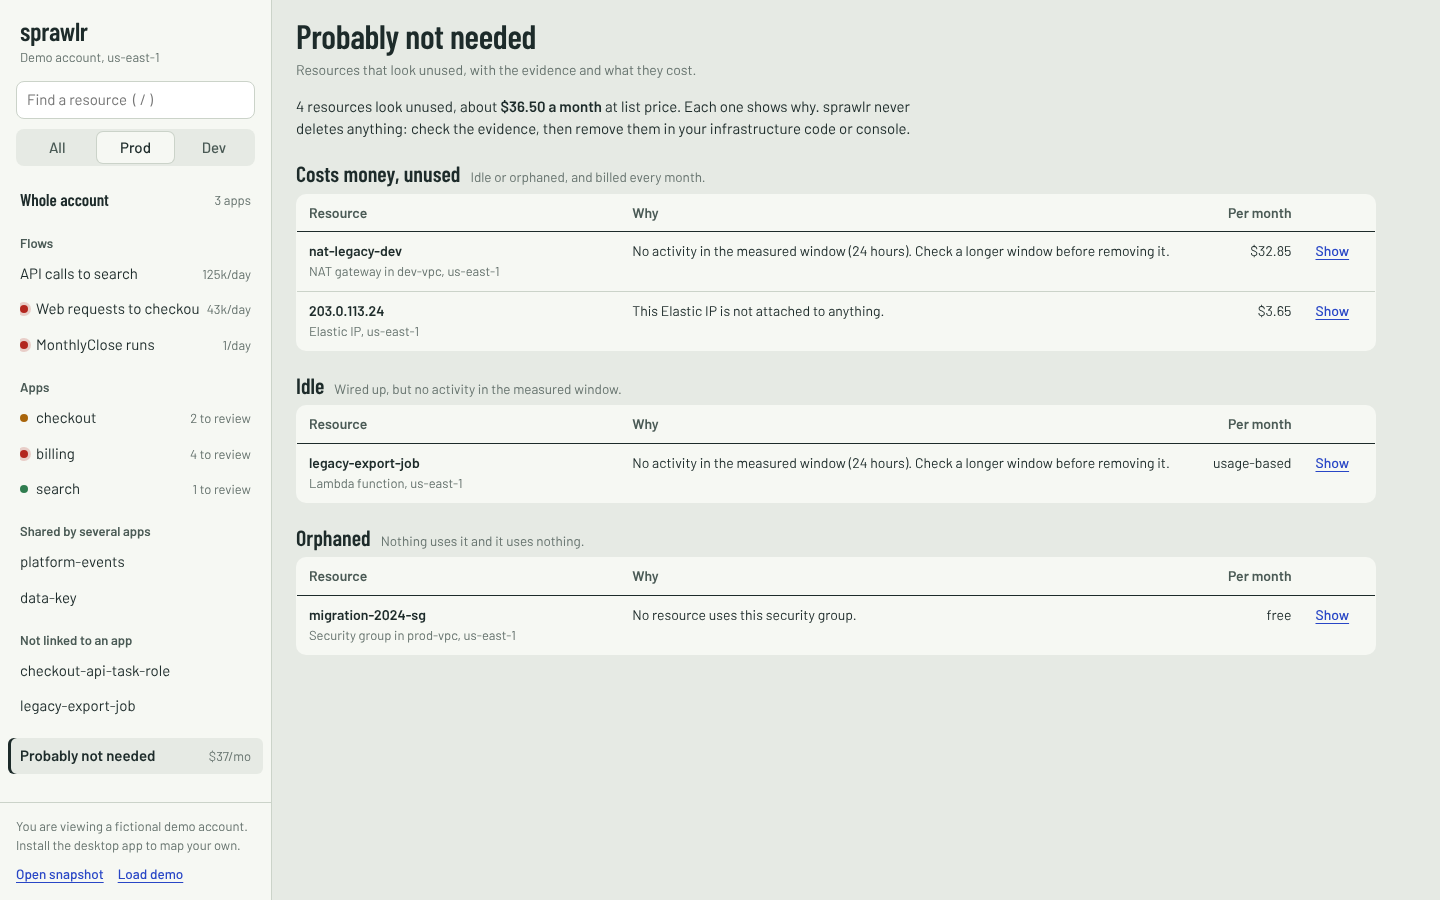
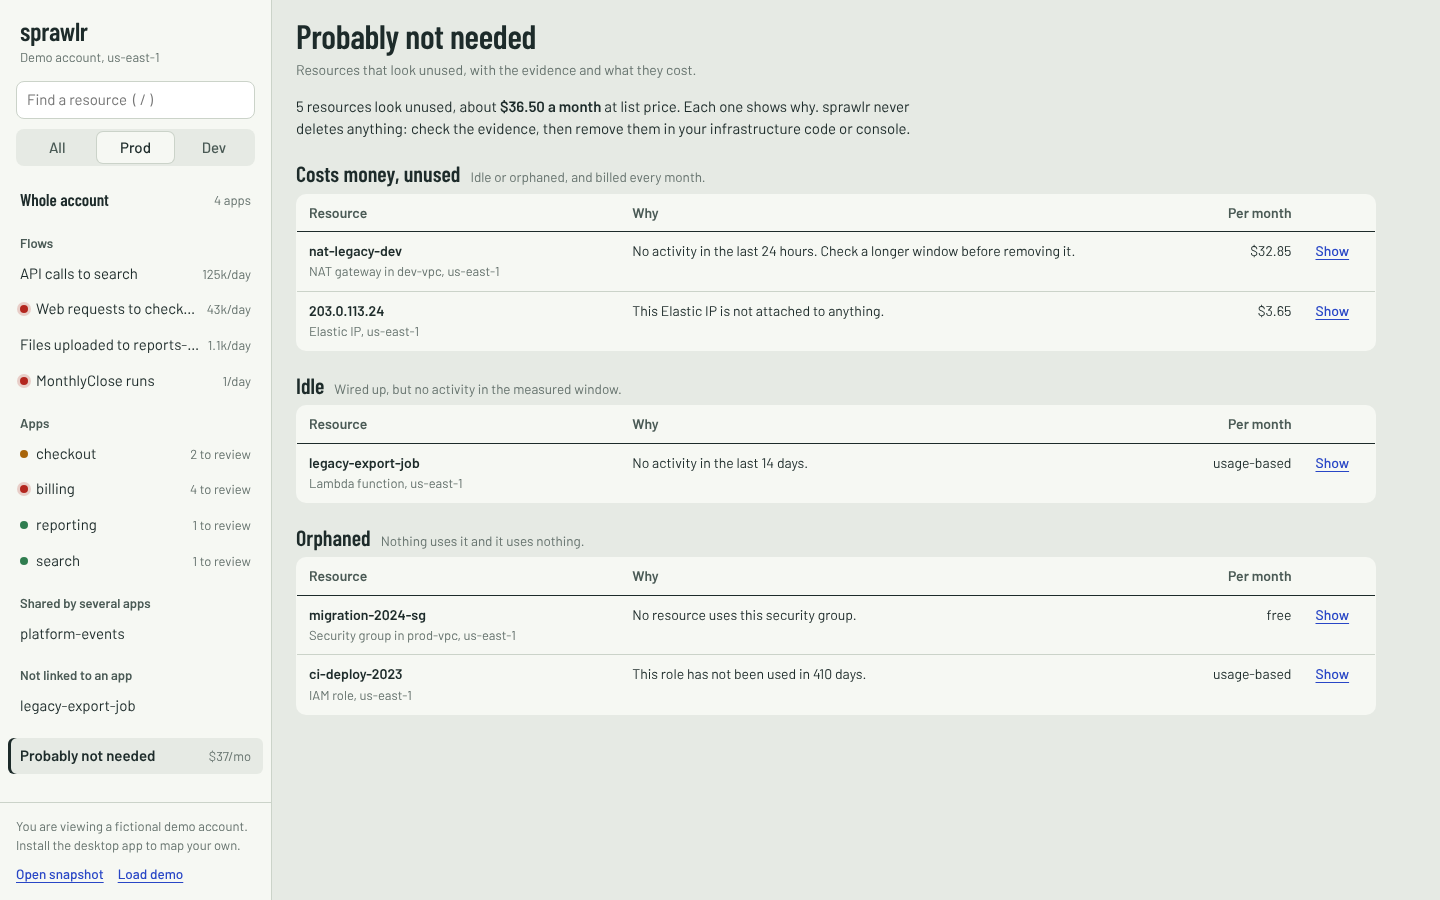
Sidebar: cut long names with an ellipsis; dots never rely on colour alone
- Long flow and app names end in "…" and show in full on hover.
- One Dot component: with a label it is announced as an image, without one it is hidden.
  App health dots in the sidebar and on the map now say what they mean.
- scripts/screenshots.py regenerates the README screenshots from the web demo.

Claude-Session: https://claude.ai/code/session_01CQpunTq5W7TdE2K3pMK964

diff --git a/app/src/features/navigation/Sidebar.tsx b/app/src/features/navigation/Sidebar.tsx
@@ -1,4 +1,6 @@
 import type { ArchNode, Flow } from "../../domain";
+import { Dot, healthLabel } from "../../ui/Dot";
+import { SideLabel } from "./SideLabel";
 import { displayName, fmtCount, type AppSummary, type Index } from "../../domain";
 import { Find } from "./Find";
 import type { ReactNode } from "react";
@@ -55,10 +57,7 @@ export function Sidebar({ ix, onFind, source, envs, env, onEnv, apps, shared, un
         {flows.length > 0 && <h3 className="side__h">Flows</h3>}
         {flows.map((f) => (
           <button key={f.id} className={`side__item${is({ kind: "flow", id: f.id }) ? " is-on" : ""}`} onClick={() => onPlace({ kind: "flow", id: f.id })}>
-            <span className="side__name">
-              {f.errors_24h > 0 && <span className="dot dot--alarm" aria-label="Errors in the last 24 hours" />}
-              {f.name}
-            </span>
+            <SideLabel name={f.name} mark={f.errors_24h > 0 && <Dot tone="alarm" label="Errors in the last 24 hours" />} />
             <span className="muted">{f.runs_24h ? `${fmtCount(f.runs_24h)}/day` : ""}</span>
           </button>
         ))}
@@ -66,10 +65,7 @@ export function Sidebar({ ix, onFind, source, envs, env, onEnv, apps, shared, un
         <h3 className="side__h">Apps</h3>
         {apps.map((a) => (
           <button key={a.name} className={`side__item${is({ kind: "app", name: a.name }) ? " is-on" : ""}`} onClick={() => onPlace({ kind: "app", name: a.name })}>
-            <span className="side__name">
-              {a.health !== "unknown" && <span className={`dot dot--${a.health}`} />}
-              {a.name}
-            </span>
+            <SideLabel name={a.name} mark={a.health !== "unknown" && <Dot tone={a.health} label={healthLabel(a.health)} />} />
             <span className="muted">{a.findings > 0 ? `${a.findings} to review` : a.count}</span>
           </button>
         ))}
@@ -77,14 +73,14 @@ export function Sidebar({ ix, onFind, source, envs, env, onEnv, apps, shared, un
         {shared.length > 0 && <h3 className="side__h">Shared by several apps</h3>}
         {shared.map((n) => (
           <button key={n.id} className={`side__item${is({ kind: "resource", id: n.id }) ? " is-on" : ""}`} onClick={() => onPlace({ kind: "resource", id: n.id })}>
-            <span className="side__name">{displayName(n)}</span>
+            <SideLabel name={displayName(n)} />
           </button>
         ))}
 
         {unassigned.length > 0 && <h3 className="side__h">Not linked to an app</h3>}
         {unassigned.map((n) => (
           <button key={n.id} className={`side__item${is({ kind: "resource", id: n.id }) ? " is-on" : ""}`} onClick={() => onPlace({ kind: "resource", id: n.id })}>
-            <span className="side__name">{displayName(n)}</span>
+            <SideLabel name={displayName(n)} />
           </button>
         ))}
 

diff --git a/app/src/features/map/nodes.tsx b/app/src/features/map/nodes.tsx
@@ -1,6 +1,7 @@
 import { Handle, Position, type NodeProps, type Node } from "@xyflow/react";
 import type { AppSummary, LoadState } from "../../domain";
 import type { Health, Layer } from "../../domain";
+import { Dot, healthLabel } from "../../ui/Dot";
 import { Spark } from "../../ui/Spark";
 
 export type Mark = "none" | "dim" | "hot" | "origin";
@@ -36,7 +37,6 @@ function LoadBar({ load }: { load: Load }) {
 export type AppData = { app: AppSummary; mark: Mark; load?: Load };
 export type TerritoryData = { name: string; detail: string };
 
-const HEALTH_TEXT: Record<Health, string> = { ok: "Healthy", warning: "Warning", alarm: "Alarm", unknown: "No health data" };
 
 function Ports() {
   return (
@@ -72,7 +72,7 @@ export function ResourceNode({ data, selected }: NodeProps<Node<ResourceData>>) 
           <Spark values={data.spark.values} width={44} height={18} tone={data.spark.alert ? "alarm" : "ink"} />
         </span>
       )}
-      {data.health !== "unknown" && <span className={`dot dot--${data.health}`} aria-label={HEALTH_TEXT[data.health]} />}
+      {data.health !== "unknown" && <Dot tone={data.health} label={healthLabel(data.health)} />}
       {data.findings > 0 && (
         <span className="res__flag" aria-label={`${data.findings} findings`}>
           {data.findings}
@@ -93,7 +93,7 @@ export function AppNode({ data, selected }: NodeProps<Node<AppData>>) {
         {a.count} resources in {a.envs.join(" and ") || "no environment"}
       </span>
       <span className="appnode__foot">
-        {a.health !== "unknown" && <span className={`dot dot--${a.health}`} />}
+        {a.health !== "unknown" && <Dot tone={a.health} label={healthLabel(a.health)} />}
         {a.findings > 0 ? `${a.findings} to review` : "Nothing to review"}
       </span>
       {data.load && <LoadBar load={data.load} />}

diff --git a/app/src/features/details/Details.tsx b/app/src/features/details/Details.tsx
@@ -1,5 +1,6 @@
 import { useState } from "react";
 import { EDGE_VERB, EVIDENCE_LABEL, METHOD_LABEL, alarmsOf, displayName, envName, fmtCount, fmtValue, fmtX, kindInfo, logErrorsOf, metricsOf, strength, vpcOf, type Index } from "../../domain";
+import { Dot } from "../../ui/Dot";
 import { Spark } from "../../ui/Spark";
 import type { ArchEdge, Capacity, Finding, Flow, Lifecycle, LogErrors } from "../../domain";
 
@@ -115,7 +116,7 @@ export function Details({ ix, id, findings, blastCount, onBlast, onSelect, onClo
           <h3>Last 24 hours</h3>
           {alarms.map((al) => (
             <div key={al.name} className={`alarm alarm--${al.state.toLowerCase()}`} title={al.reason ?? undefined}>
-              <span className={`dot dot--${al.state === "ALARM" ? "alarm" : al.state === "OK" ? "ok" : "unknown"}`} />
+              <Dot tone={al.state === "ALARM" ? "alarm" : al.state === "OK" ? "ok" : "unknown"} />
               <span className="alarm__name">{al.name}</span>
               <span className="muted">{al.state === "ALARM" ? "firing" : al.state === "OK" ? "OK" : "no data"}</span>
             </div>

diff --git a/app/src/styles.css b/app/src/styles.css
@@ -58,7 +58,8 @@ button, input, select { font: inherit; color: inherit; }
 .side__item.is-on { background: var(--ground); box-shadow: inset 3px 0 0 var(--ink); font-weight: 600; }
 .side__item--map { font: 600 17px/1.2 var(--cond); padding: 9px 12px; }
 .side__item .muted { font: 400 13px var(--sans); white-space: nowrap; }
-.side__name { display: flex; align-items: center; gap: 8px; min-width: 0; overflow: hidden; text-overflow: ellipsis; white-space: nowrap; }
+.side__name { display: flex; align-items: center; gap: 8px; min-width: 0; }
+.side__text { min-width: 0; overflow: hidden; text-overflow: ellipsis; white-space: nowrap; }
 .side__foot { border-top: 1px solid var(--rule); padding: 14px 16px 16px; }
 
 .scan { display: flex; flex-direction: column; gap: 10px; }

diff --git a/app/src/ui/Dot.tsx b/app/src/ui/Dot.tsx
@@ -1,0 +1,16 @@
+// A coloured status dot. Colour is never the only signal: with a label the dot is announced
+// as an image; without one it only repeats text next to it and is hidden from screen readers.
+import type { Health } from "../domain";
+
+const HEALTH_TEXT: Record<Health, string> = { ok: "Healthy", warning: "Warning", alarm: "Alarm", unknown: "No health data" };
+
+/** What a health dot means, in words. */
+export const healthLabel = (h: Health) => HEALTH_TEXT[h];
+
+export function Dot({ tone, label }: { tone: Health; label?: string }) {
+  return label ? (
+    <span className={`dot dot--${tone}`} role="img" aria-label={label} title={label} />
+  ) : (
+    <span className={`dot dot--${tone}`} aria-hidden="true" />
+  );
+}

diff --git a/app/src/features/navigation/SideLabel.tsx b/app/src/features/navigation/SideLabel.tsx
@@ -1,0 +1,14 @@
+// The name in a sidebar row, cut with "…" when it is too long; the full name shows on hover
+// and stays the button's accessible name.
+import type { ReactNode } from "react";
+
+export function SideLabel({ name, mark }: { name: string; mark?: ReactNode }) {
+  return (
+    <span className="side__name">
+      {mark}
+      <span className="side__text" title={name}>
+        {name}
+      </span>
+    </span>
+  );
+}

diff --git a/scripts/screenshots.py b/scripts/screenshots.py
@@ -1,0 +1,79 @@
+"""Regenerate the README screenshots in docs/images from the web demo.
+
+    cd app && npx vite build && npx vite preview --port 4173 &
+    python3 scripts/screenshots.py [http://localhost:4173/]
+
+Needs Playwright for Python (pip install playwright && playwright install chromium).
+"""
+
+import sys
+from pathlib import Path
+
+from playwright.sync_api import Page, sync_playwright
+
+BASE = sys.argv[1] if len(sys.argv) > 1 else "http://localhost:4173/"
+OUT = Path(__file__).resolve().parent.parent / "docs" / "images"
+
+
+def open_demo(page: Page, query: str = "") -> None:
+    page.goto(BASE + query)
+    page.wait_for_timeout(1500)
+
+
+def side(page: Page, name: str) -> None:
+    page.locator(".side__item", has_text=name).first.click()
+    page.wait_for_timeout(1200)
+
+
+def node(page: Page, name: str) -> None:
+    page.locator(".react-flow__node", has_text=name).first.click()
+    page.wait_for_timeout(1000)
+
+
+def shoot(page: Page, name: str) -> None:
+    page.screenshot(path=str(OUT / name))
+    print("wrote", OUT / name)
+
+
+def main() -> None:
+    with sync_playwright() as p:
+        browser = p.chromium.launch()
+        page = browser.new_page(viewport={"width": 1440, "height": 900})
+
+        open_demo(page)
+        shoot(page, "overview.png")
+
+        side(page, "Web requests to checkout")
+        page.get_by_role("radio", name="Load", exact=True).click()
+        slider = page.locator(".whatif input[type=range]")
+        slider.evaluate(
+            "(el) => { const set = Object.getOwnPropertyDescriptor(HTMLInputElement.prototype, 'value').set;"
+            " set.call(el, '1.5'); el.dispatchEvent(new Event('input', { bubbles: true })); }"
+        )
+        page.wait_for_timeout(800)
+        shoot(page, "flow-whatif.png")
+
+        page.get_by_role("radio", name="Health", exact=True).click()
+        node(page, "InvoiceProcessor")
+        page.locator(".details h3", has_text="Errors in logs").evaluate("(el) => el.scrollIntoView({ block: 'start' })")
+        page.wait_for_timeout(500)
+        shoot(page, "error-logs.png")
+
+        open_demo(page)
+        side(page, "Files uploaded to reports-uploads")
+        node(page, "reports-worker")
+        shoot(page, "iam-mapped.png")
+
+        open_demo(page)
+        side(page, "Probably not needed")
+        shoot(page, "cleanup.png")
+
+        tray = browser.new_page(viewport={"width": 360, "height": 480}, device_scale_factor=2)
+        open_demo(tray, "?view=tray")
+        shoot(tray, "tray-popover.png")
+
+        browser.close()
+
+
+if __name__ == "__main__":
+    main()

diff --git a/AGENTS.md b/AGENTS.md
@@ -120,7 +120,7 @@ The UI and docs speak to someone running a system, not to an engineer reading th
 
 - [ ] Tests for the behaviour, failing without the change.
 - [ ] `cargo test`, `clippy -D warnings`, `cargo fmt --check`, `npm run typecheck`, `npm test` and `npm run build` all pass.
-- [ ] Demo data regenerated if domain output changed, and the screenshots in `docs/images/` updated if the UI changed visibly.
+- [ ] Demo data regenerated if domain output changed, and the screenshots in `docs/images/` updated if the UI changed visibly (`python3 scripts/screenshots.py` against `npx vite preview`).
 - [ ] README and `docs/` updated for anything a user or contributor would notice.
 - [ ] An ADR in `docs/adr/` for any decision that changes a rule above.
 - [ ] One topic per PR. The description says what changed for the person using sprawlr.
